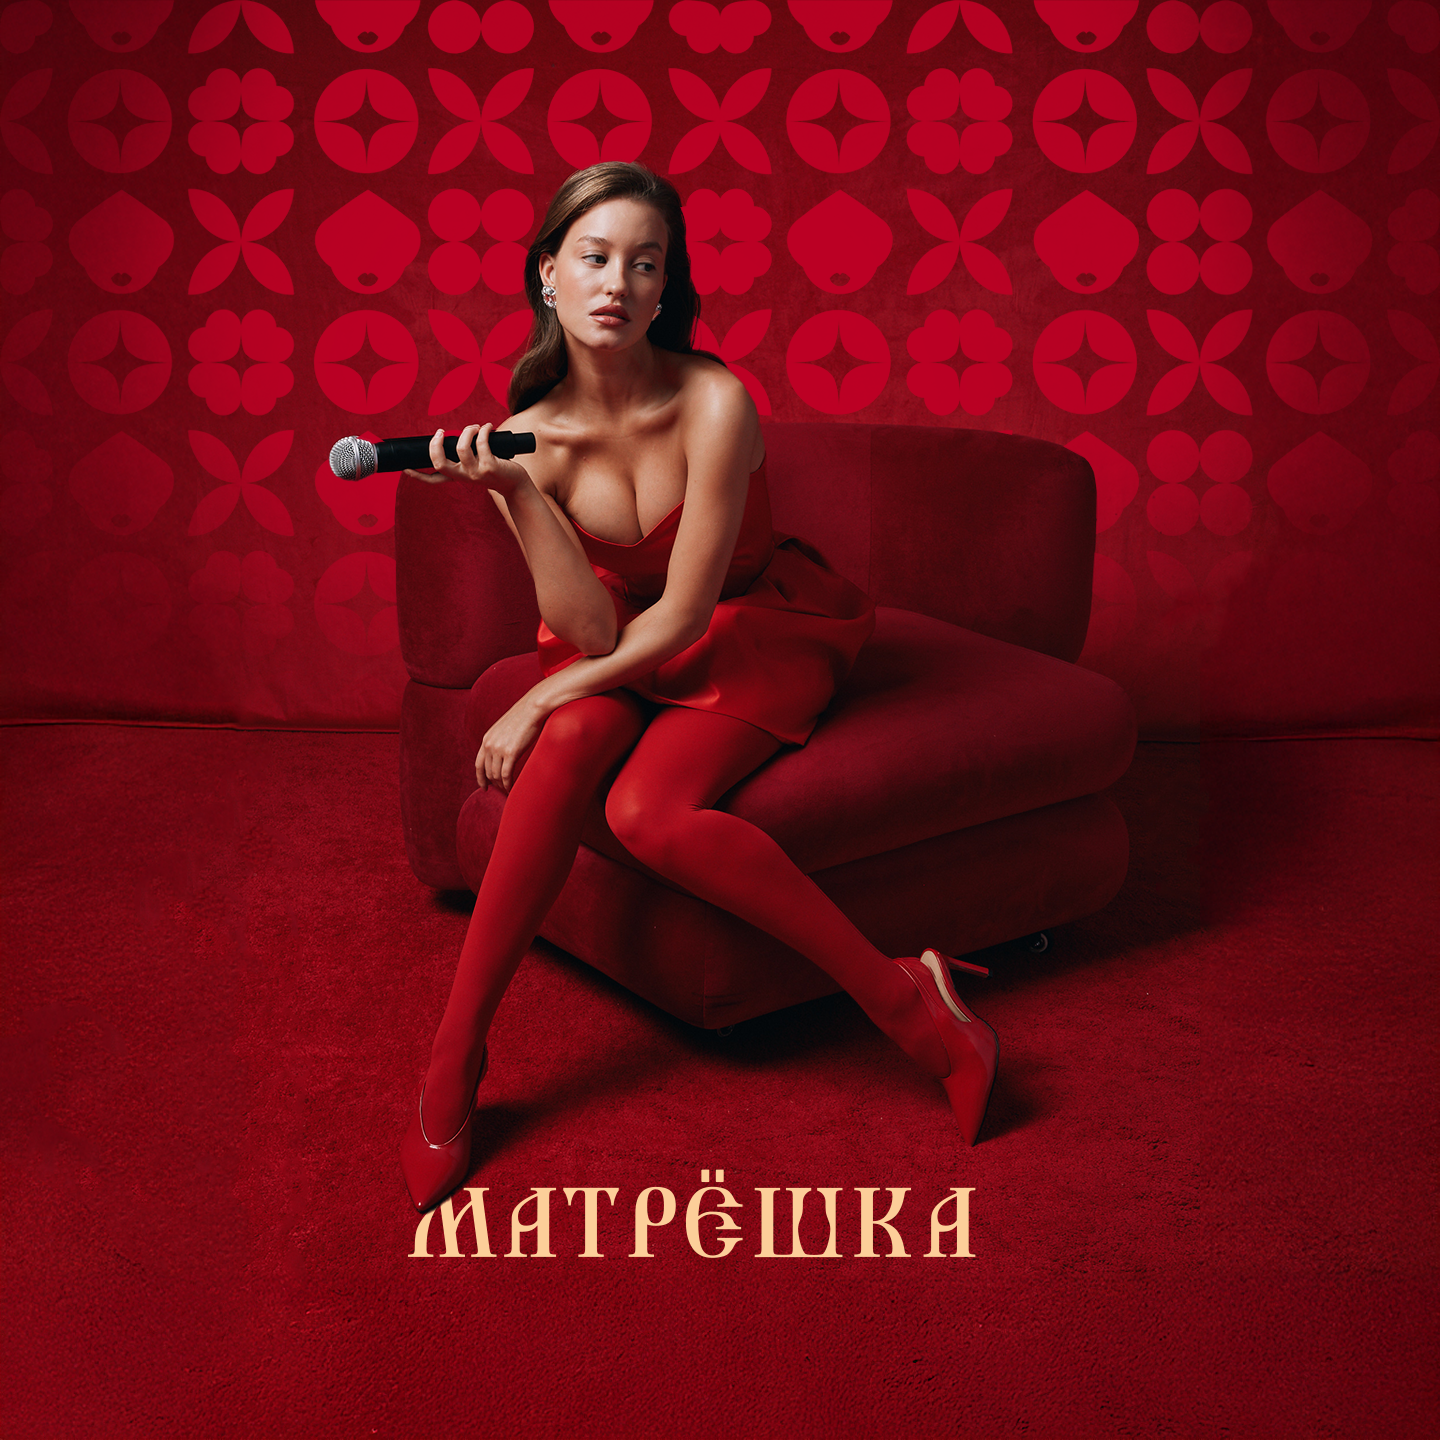
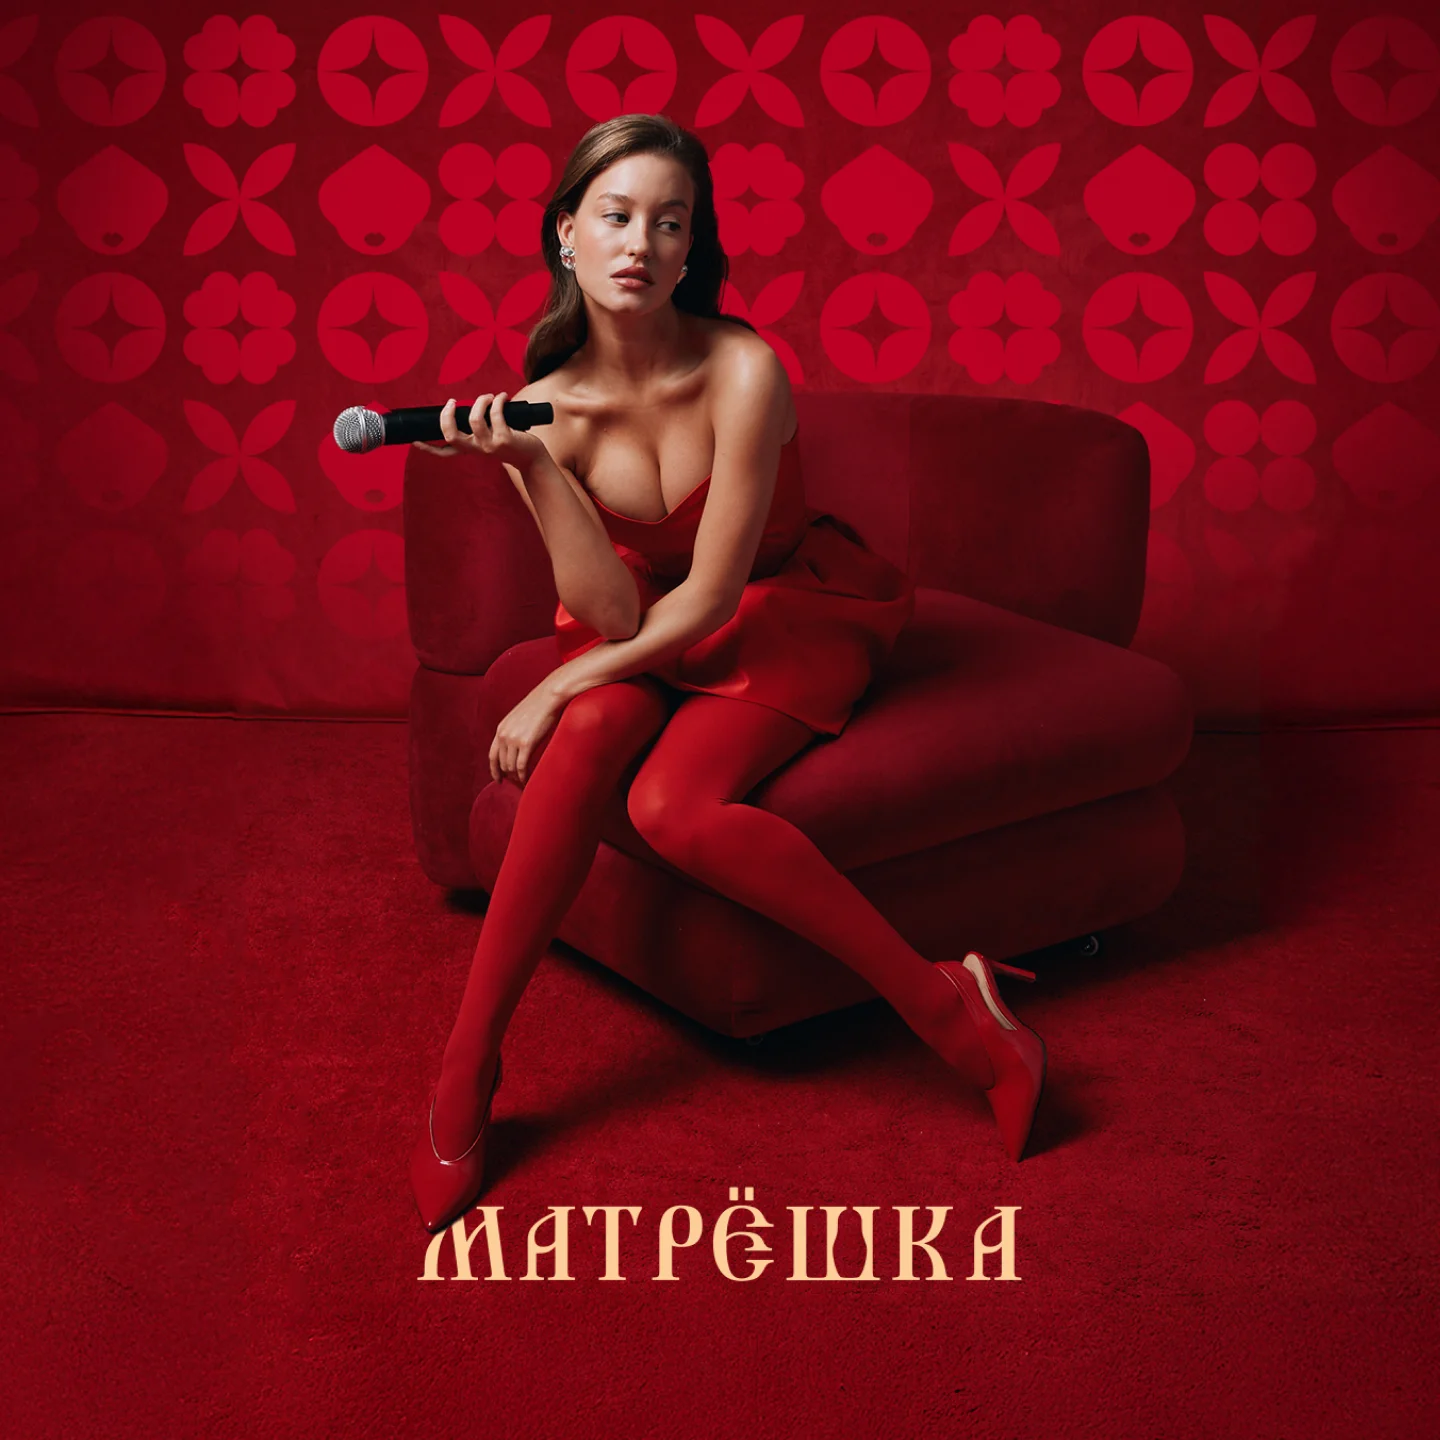
fix imgs

diff --git a/src/app/home/EventSpace.tsx b/src/app/home/EventSpace.tsx
@@ -100,20 +100,20 @@ export function EventSpace({ }: Props) {
           'absolute left-0 top-0 right-0 h-[630px] md:h-[1100px] z-[1]'
         )}
       >
-        <video
-          src='/videos/girl.mp4'
-          autoPlay
-          loop
-          muted
-          className='hidden md:block w-full h-full object-cover'
+        <img
+          loading='lazy'
+          decoding='async'
+          src='/images/girl_desktop.webp'
+          alt='Девушка поёт в микрофон'
+          className='hidden lg:block w-full h-full object-cover select-none'
         />
 
         <img
           loading='lazy'
           decoding='async'
-          src='/images/girl.webp'
+          src='/images/girl_mobile.webp'
           alt='Девушка поёт в микрофон'
-          className='md:hidden w-full h-full object-cover select-none'
+          className='lg:hidden w-full h-full object-cover select-none'
         />
 
 

diff --git a/src/app/api/book_place/route.ts b/src/app/api/book_place/route.ts
@@ -3,7 +3,7 @@ import { NextResponse } from 'next/server';
 
 const getCurDate = () => {
   const now = new Date();
-
+  
   const year = now.getFullYear();
   const month = String(now.getMonth() + 1).padStart(2, '0');
   const day = String(now.getDate()).padStart(2, '0');
